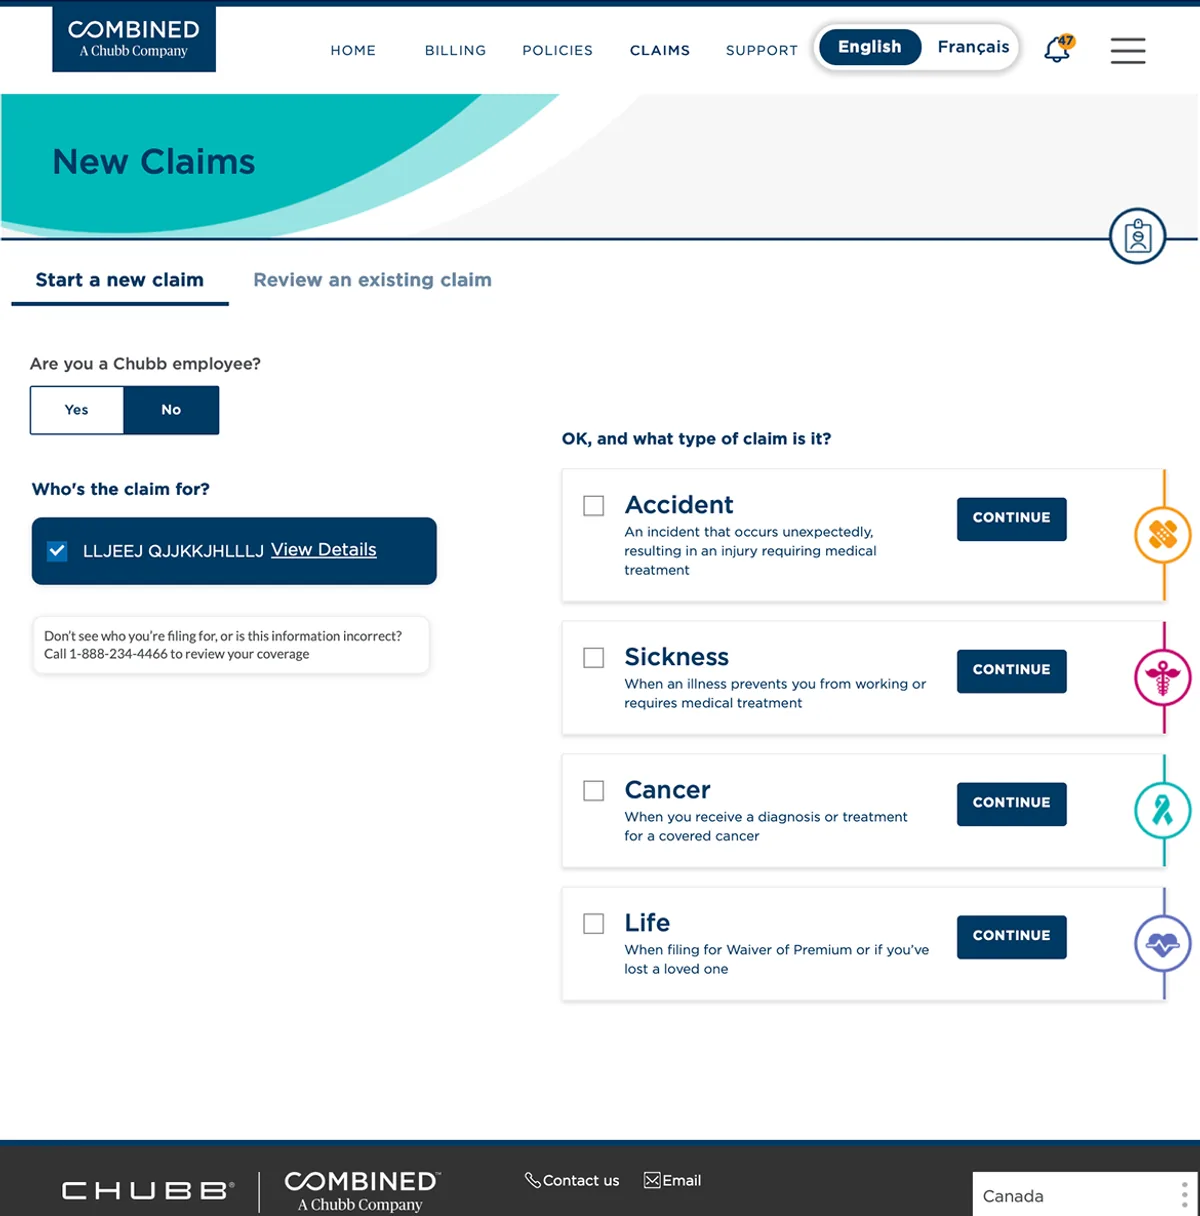
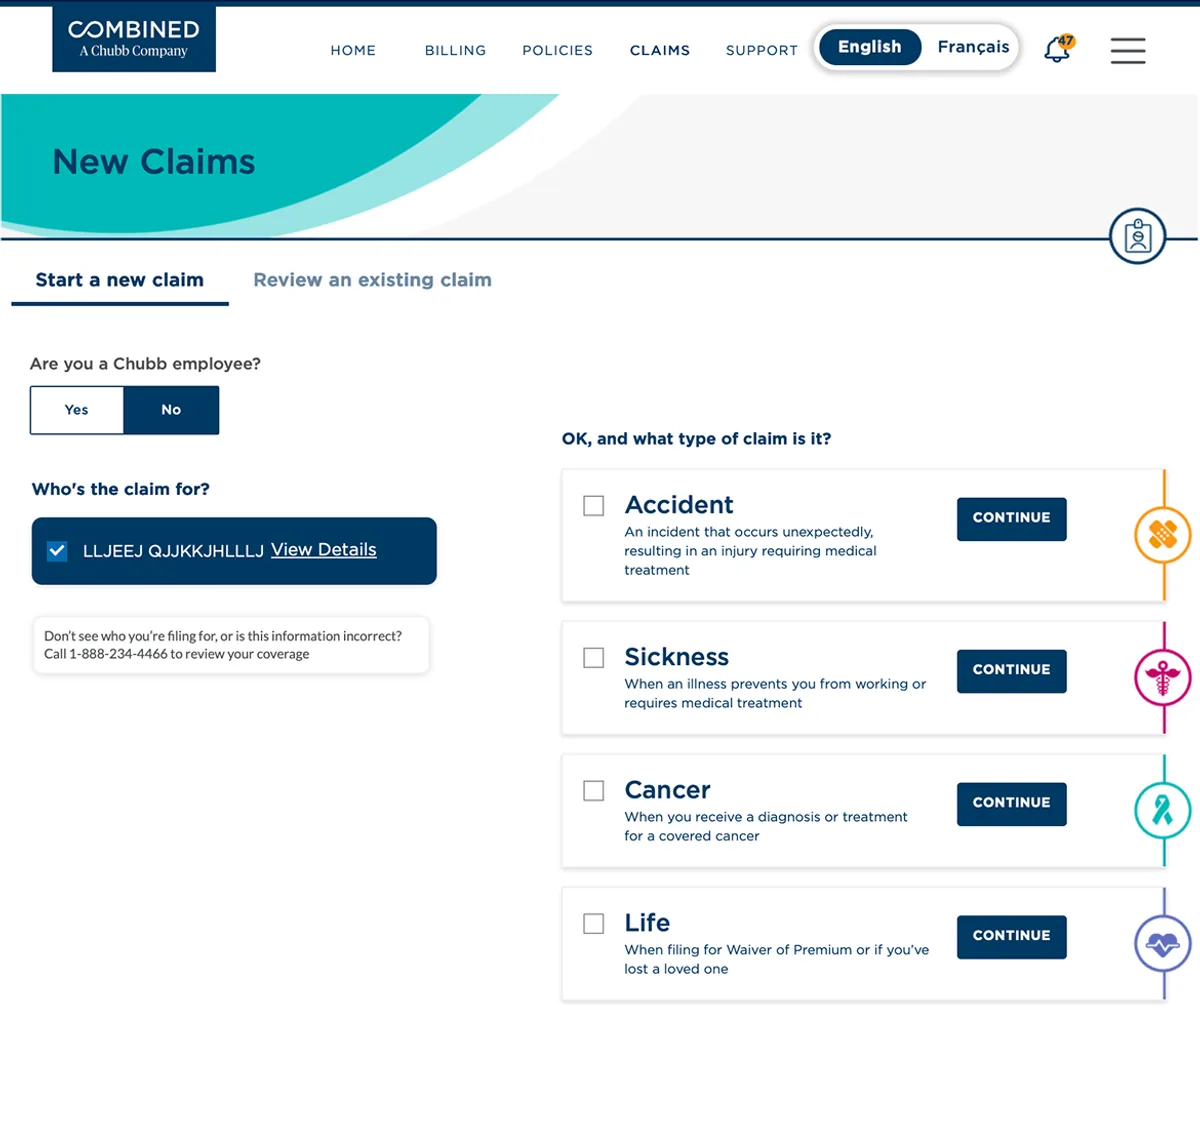
Reshape UX Wins copy and crop footers off claim-selection pair
- Drop the now-redundant "Improved claim type selection" h3; the
  parent UX Wins H2 covers it
- Add a short lead paragraph directly under the H2 establishing the
  before/after framing: "In the original website, claimant and
  claim-type selection lived on the same step..."
- Replace claim-selection-after with the new Md-breakpoint screenshot
  (responsive treatment)
- Crop the dark Chubb/Combined footer off both claim-selection images
- Update language principle to: "recognition of examples helps people
  more quickly assign meaning to choices"
- Pink-highlight the out-of-scope/disability-language sentence in the
  FullStory paragraph

diff --git a/app/work/ai-claims-portal/page.tsx b/app/work/ai-claims-portal/page.tsx
@@ -414,6 +414,12 @@ export default async function AiClaimsPortalCaseStudyPage() {
                         Reducing overwhelm and bringing clarity to claim initiation
                       </h2>
 
+                      <div className="h-4" />
+
+                      <p className="text-body-small md:text-body-big text-text-secondary">
+                        In the original website, claimant and claim-type selection lived on the same step, cluttering the page and confusing users. Now they&rsquo;re clear, segmented steps.
+                      </p>
+
                       <div className="h-8" />
 
                       <ImageBlock
@@ -424,20 +430,9 @@ export default async function AiClaimsPortalCaseStudyPage() {
 
                       <div className="h-24" />
 
-                      <h3 className="text-h4 md:text-h3 font-normal text-text-primary leading-[1.3]">
-                        Improved claim type selection
-                      </h3>
-
-                      <div className="h-8" />
-
-                      <div className="text-body-small md:text-body-big text-text-secondary">
-                        <p>
-                          In the original design, claimant and claim-type selection lived on the same step, cluttering the page and confusing users. Now they&rsquo;re clear, segmented steps.
-                        </p>
-                        <p className="mt-6">
-                          FullStory recordings and insights from our stakeholder discovery workshop revealed that customers had a really hard time identifying which claim type they needed to submit. Reimagining the claim types themselves was still out of scope, but we could add high-visibility, reassuring disability language for users looking to submit a disability claim. We also added examples to each claim type, leaning on the design principle that recognition is an easier way to inform a choice.
-                        </p>
-                      </div>
+                      <p className="text-body-small md:text-body-big text-text-secondary">
+                        FullStory recordings and insights from our stakeholder discovery workshop revealed that customers had a really hard time identifying which claim type they needed to submit. <span className="text-primary [&_a]:text-inherit">Reimagining the claim types themselves was still out of scope, but we could add high-visibility, reassuring disability language for users looking to submit a disability claim.</span> We also added examples to each claim type, leaning on the design principle that recognition of examples helps people more quickly assign meaning to choices.
+                      </p>
 
                       <div className="h-12" />
 
